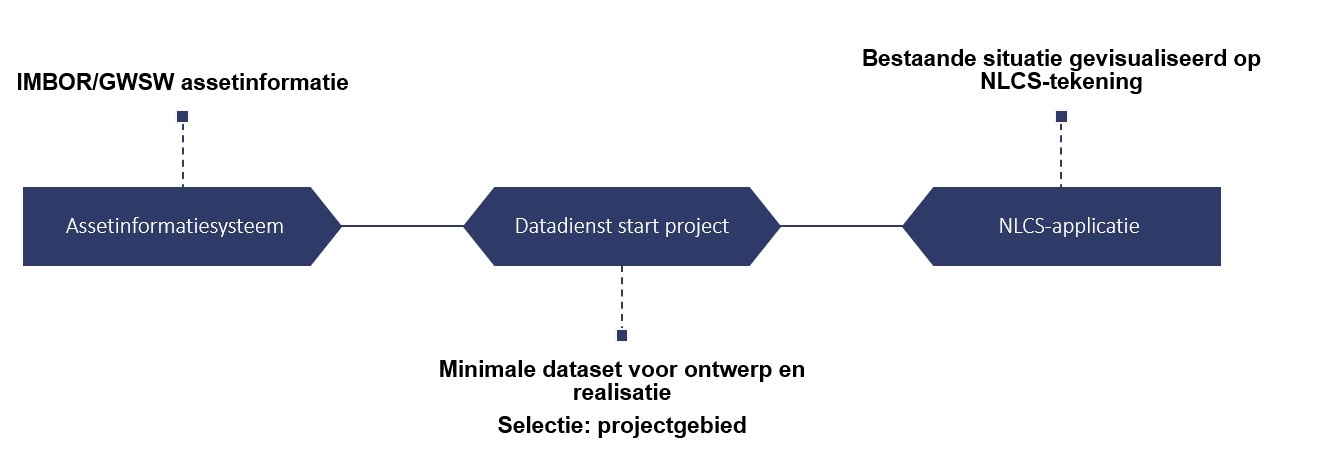
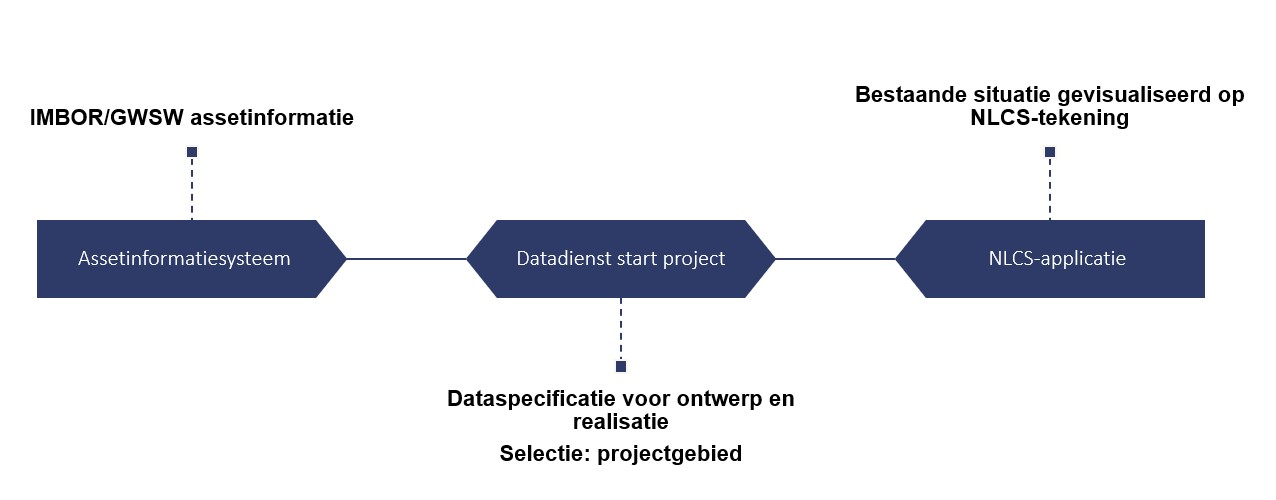
rename minimale dataset to dataspecificatie

diff --git a/docs/utrecht/hoofdstukken/8.md b/docs/utrecht/hoofdstukken/8.md
@@ -4,7 +4,7 @@
 ## Advies Aanleveren beheerinformatie voor ontwerp
 
 <figure>
-<img src="../images/datadienst-beheerinformatie-nlcs.jpg" alt="visuele weergave van de datadienst tussen assetinformatiesysteem met minimale dataset realisatie en ontwerp, uitwisselen dataset van projectgebed en de nlcs-applicatie die deze transformeert naar een NLCS-tekening" width="100%"> 
+<img src="../images/datadienst-beheerinformatie-nlcs.jpg" alt="visuele weergave van de datadienst tussen assetinformatiesysteem met Dataspecificatie realisatie en ontwerp, uitwisselen dataset van projectgebed en de nlcs-applicatie die deze transformeert naar een NLCS-tekening" width="100%"> 
 <figcaption>Automatisering levering beheerinformatie voor ontwerp</figcaption>
 </figure>
 
@@ -13,7 +13,7 @@
 <p><b>Aanbeveling Utrecht: </b> Controleer voor elk project of alle gewenste informatie over de assets beschikbaar is. Dit kan worden geautomatiseerd omdat de data beschikaar is via het centrale assetinformatiesysteem. Werk hiervoor samen met de afdeling stadingenieurs, die de datasets en tekeningen als eerste verwerken in een bestekstekening. Zij weten ook welke informatie nodig is om een nieuwe situatie te kunnen ontwerpen of onderhoudswerk te kunnen uitwerken tot een bestekstekening.
 
 
-<p><b>Aanbeveling DOOR-programma:</b> Stel landelijk vast welke informatie over de bestaande situatie nodig is voor het maken van een ontwerp. Maak hiervan een <b>"Minimale dataset assetinformatie voor ontwerp en realisatie"</b> uitgedrukt in IMBOR/GWSW. </p>
+<p><b>Aanbeveling DOOR-programma:</b> Stel landelijk vast welke informatie over de bestaande situatie nodig is voor het maken van een ontwerp. Maak hiervan een <b>"Dataspecificatie assetinformatie voor ontwerp en realisatie"</b> uitgedrukt in IMBOR/GWSW. </p>
 
 
 > <b>Conclusie 2</b>. Het is wenselijk om een selectie van de beheerinformatie te kunnen leveren vanuit een centraal assetinformatiesysteem op basis van de <b>grenzen van het projectgebied</b>.
@@ -32,7 +32,7 @@
 ## Advies Detecteren mutaties en bijwerken assetinformatie
 
 <figure>
-<img src="../images/datadienst-revisie.jpg" alt="visuele weergave van de datadienst tussen assetinformatiesysteem met minimale dataset revisie, uitwisselen dataset nieuwe situatie projectgebed en de nlcs-applicatie die een NLCS-revisietekening kan leveren met een revisiedataset erbij" width="100%"> 
+<img src="../images/datadienst-revisie.jpg" alt="visuele weergave van de datadienst tussen assetinformatiesysteem met Dataspecificatie revisie, uitwisselen dataset nieuwe situatie projectgebed en de nlcs-applicatie die een NLCS-revisietekening kan leveren met een revisiedataset erbij" width="100%"> 
 <figcaption>Automatisering levering revisies aan beheerder</figcaption>
 </figure>
 

diff --git a/docs/utrecht/hoofdstukken/7.md b/docs/utrecht/hoofdstukken/7.md
@@ -77,11 +77,11 @@ Sommige objecten missen een Rooster of een Compartiment bij de rioolput. Dit kan
 Omdat de NLCS ook niet dit detailniveau vraagt, kan de areaaldata wel worden gebruikt als input voor een project.
 
 ##### Selectie voor ontwerp
-Gemeente Utrecht geeft aan, de eigen assetinformatie te willen controleren op basis van een "<b>Minimale dataset assetinformatie</b>", waarin meer informatie bij een object verplicht wordt gesteld dan in IMBOR. 
+Gemeente Utrecht geeft aan, de eigen assetinformatie te willen controleren op basis van een "<b>Dataspecificatie assetinformatie</b>", waarin meer informatie bij een object verplicht wordt gesteld dan in IMBOR. 
 
-Dat levert vervolgens de vraag op: wil je altijd alle informatie meeleveren aan het project? In het ideale geval is de geleverde dataset beperkt tot de informatie die relevant is voor de ontwerper. Dit leidt tot de wens om te kunnen werken met een "<b>Minimale dataset ontwerp en realisatie</b>".
+Dat levert vervolgens de vraag op: wil je altijd alle informatie meeleveren aan het project? In het ideale geval is de geleverde dataset beperkt tot de informatie die relevant is voor de ontwerper. Dit leidt tot de wens om te kunnen werken met een "<b>Dataspecificatie ontwerp en realisatie</b>".
 
-De use case van Utrecht heeft niet inhoudelijk onderzocht wat de minimale dataset is voor ontwerp en realisatie
+De use case van Utrecht heeft niet inhoudelijk onderzocht wat de Dataspecificatie is voor ontwerp en realisatie
 
 
 
